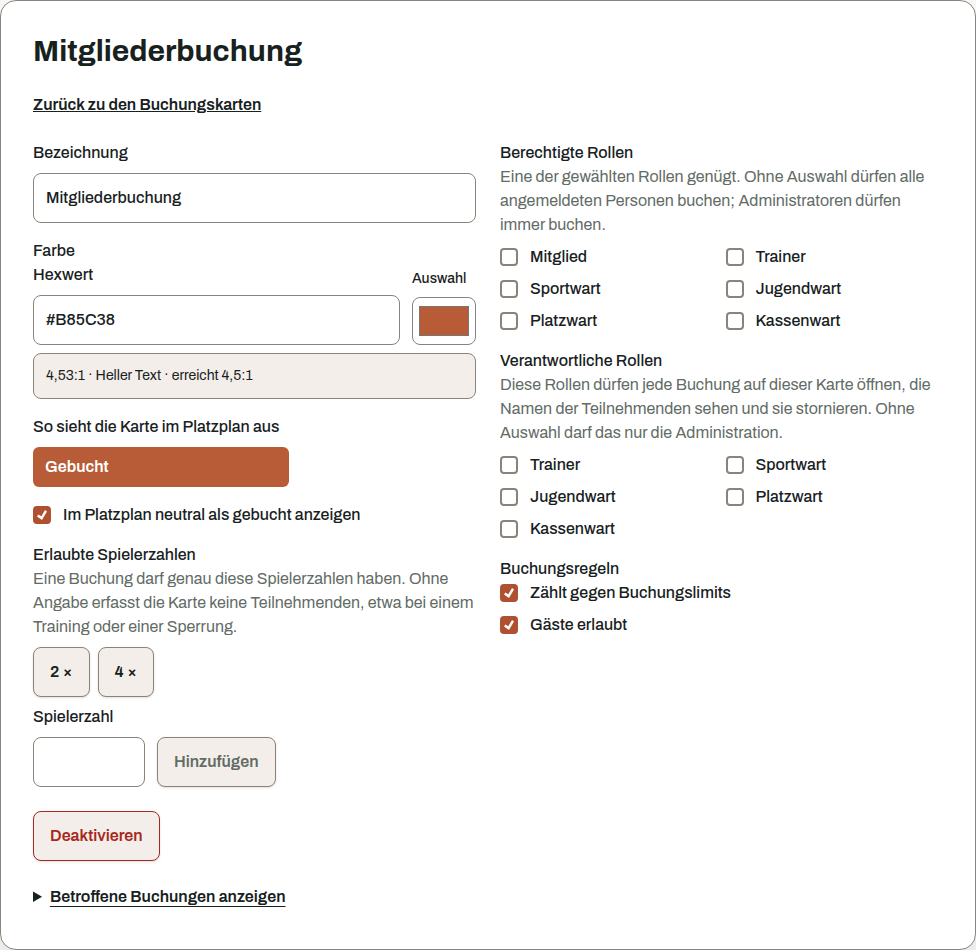
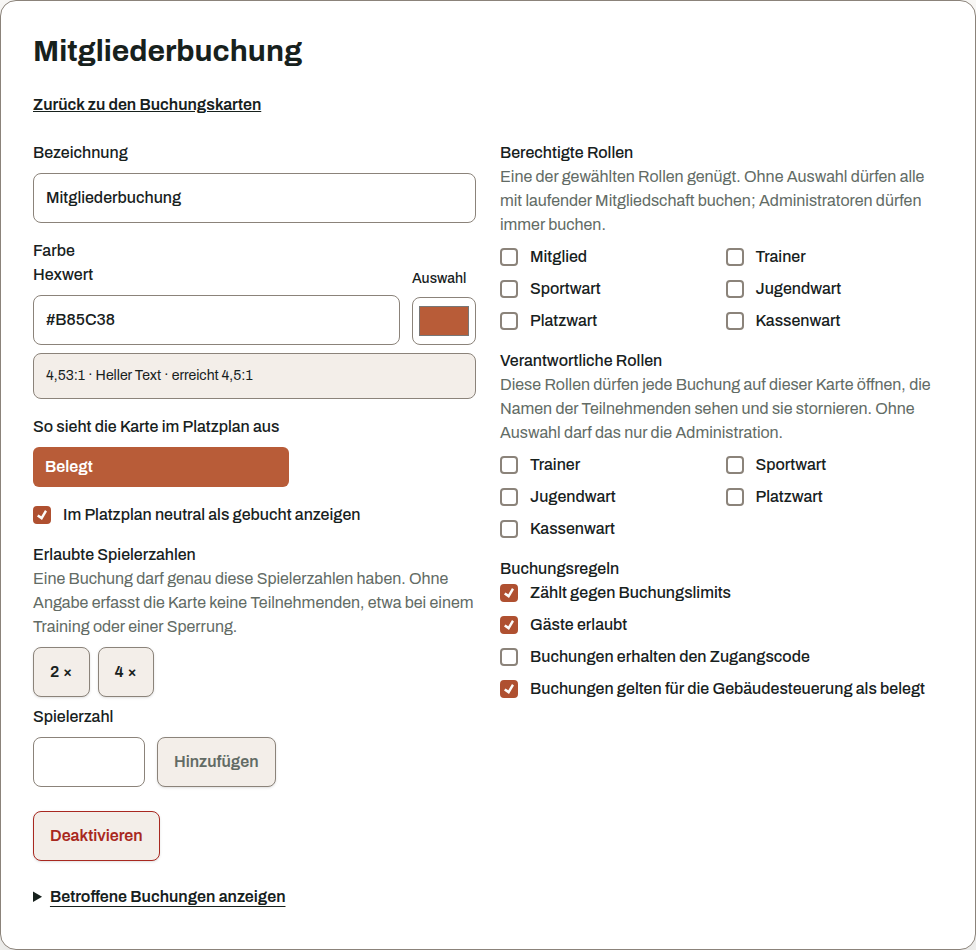
test: classify the dependant card list and record the membership in the board journey
The new route joins the authenticated surface inventory. The journey in
which a board adds a person and that person books now records her
membership, which the member card asks for. The booking card admin
baseline and both guide captures take the longer role hint.

Changed region(s): [[0.4918, 0.6716, 0.9529, 0.7326], [0.5225, 0.1832, 0.9529, 0.2442], [0.0615, 0.4884, 0.123, 0.5189]]

diff --git a/frontend/e2e/bootstrap-admin.spec.ts b/frontend/e2e/bootstrap-admin.spec.ts
@@ -1079,6 +1079,14 @@ test("an admin adds a person, gives them an account, and that person signs in an
   await expect(page.getByTestId("credential-state"))
     .toHaveAttribute("data-state", "CREDENTIAL_ISSUED");
 
+  // when — the club records the membership that opens the member card to her
+  await page.getByTestId("membership-type").selectOption({ index: 1 });
+  await page.getByTestId("membership-started-on").fill("2026-01-01");
+  await page.getByTestId("save-person").click();
+
+  // then
+  await expect(page.getByTestId("end-membership")).toBeVisible();
+
   // when — the member signs in with what the instance mailed them and replaces it. Their
   // first name is in the first password they try, which is what the policy refuses.
   await page.getByTestId("preferences-menu").click();

diff --git a/src/test/java/org/courtside/identity/AdminSurfaceTest.java b/src/test/java/org/courtside/identity/AdminSurfaceTest.java
@@ -129,6 +129,7 @@ class AdminSurfaceTest extends AbstractIntegrationTest {
             "/api/my/waitlist/{entryId}",
             "/api/my/waitlist/{entryId}/acceptance",
             "/api/my/dependants",
+            "/api/my/dependants/{personId}/booking-cards",
             "/api/my/dependants/{personId}/bookings",
             "/api/my/dependants/{personId}/bookings/{bookingId}",
             "/api/my/dependants/{personId}/notifications",
